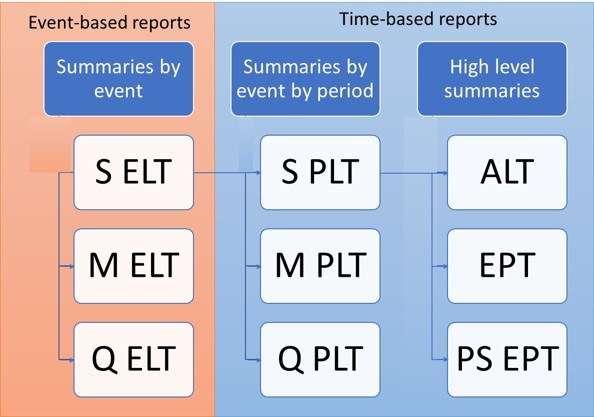
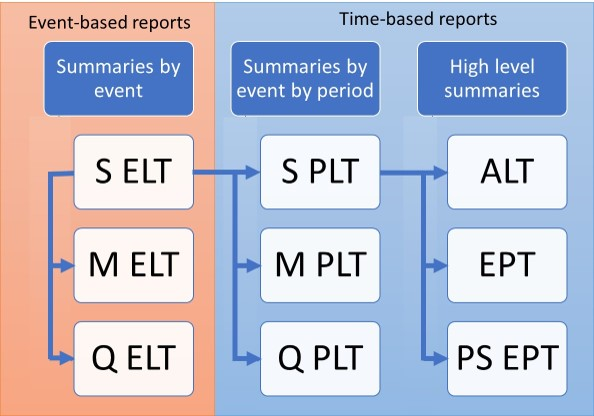
improved diagram and README

Changed region(s): [[0.303, 0.375, 0.4545, 0.875], [0.0606, 0.375, 0.1212, 0.875], [0.6364, 0.4062, 0.7576, 0.875]]

diff --git a/OpenResultsData/Docs/WorkedExamples/README.md b/OpenResultsData/Docs/WorkedExamples/README.md
@@ -24,12 +24,15 @@ The main report types can be summarized as follows;
 
 ALT and EPT reports are derived from ELTs and PLTs and represent higher statistical summaries of the more detailed ELTs and PLTs.
 
-### Agnostic format
 The loss report formats have been designed to be agnostic to the loss modelling platform that produced them. They have been based on OasisLMFs wide range of sample-based reports, with an extended set of fields to accomodate statistics that do not come from a sampling approach. Platforms that do not use sampling will not be able to populate the full range of reports, but the reports that are produced can be expressed in the same format as those that have been produced from a sampling methodology.
+
+### Worked examples overview
 
 The worked examples in this section demonstrate the derivation of ORD loss reports for the Oasis platform, which uses a Monte Carlo sampling approach to loss generation for a fixed set of event occurrences. 
 
-The diagram illustrates how the reports are derived from each other. Further reference data is needed for some calculations which is detailed as reference or input data in each worked example spreadsheet.
+The calculations use pivot tables on one or more input tables to manipulate the data into the right dimensions (group by fields, and typically sum or max of value operations) and then some simple excel formulas in the worksheet cells to compute the statistics themselves. The table relationships can be viewed in the worksheet data model for Excel 2010 or later (pre-2016 requires an add-in to be installed).
+
+The diagram illustrates how the reports are derived from each other. Further reference data is needed for some calculations which is also provided in each worked example spreadsheet.
 
 ### How reports are derived
 ![alt text](overview.jpg "Reports overview")
